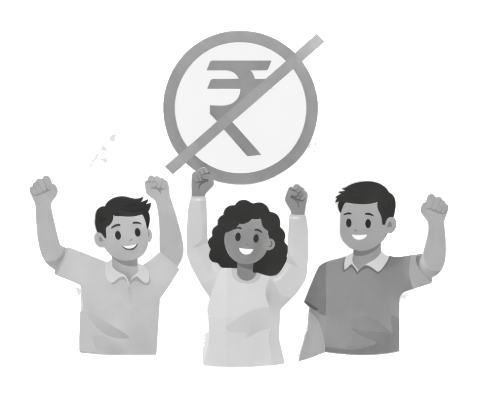
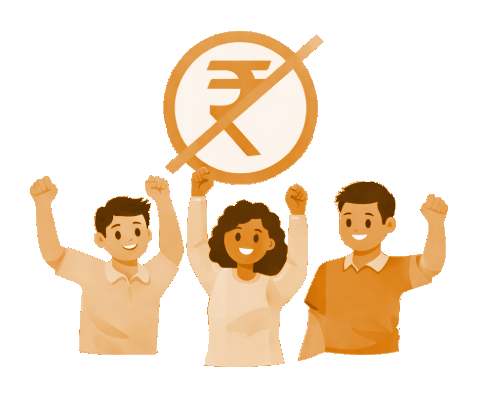
fixed the intro screen, first release

Changed region(s): [[0.0619, 0.06, 0.9278, 0.93], [0.2165, 0.33, 0.2474, 0.36]]

diff --git a/lib/pages/introduction.dart b/lib/pages/introduction.dart
@@ -28,11 +28,7 @@ class _IntroductionPageState extends State<IntroductionPage> {
         pages: [
           PageViewModel(
             title: AppLocalizations.of(context)!.selectLanguage,
-            image: Image.asset(
-              'assets/introduction/language_select.png',
-              color: Theme.of(context).colorScheme.onSurface,
-              colorBlendMode: BlendMode.modulate,
-            ),
+            image: Image.asset('assets/introduction/language_select.png'),
             bodyWidget: Column(
               mainAxisAlignment: MainAxisAlignment.center,
               children: List.generate(Globals.supportedLanguages.length, (
@@ -86,25 +82,17 @@ class _IntroductionPageState extends State<IntroductionPage> {
           PageViewModel(
             title: AppLocalizations.of(context)!.findBhandaras,
             body: AppLocalizations.of(context)!.findBhandarasDescription,
-            image: Image.asset(
-              'assets/introduction/find_bhandaras.png',
-              color: Theme.of(context).colorScheme.onSurface,
-              colorBlendMode: BlendMode.modulate,
-            ),
+            image: Image.asset('assets/introduction/find_bhandaras.png'),
           ),
           PageViewModel(
             title: AppLocalizations.of(context)!.hostABhandara,
             body: AppLocalizations.of(context)!.hostABhandaraDescription,
-            image: Image.asset('assets/logo.png'),
+            image: Image.asset('assets/introduction/host_bhandaras.png'),
           ),
           PageViewModel(
             title: AppLocalizations.of(context)!.allForFree,
             body: AppLocalizations.of(context)!.allForFreeDescription,
-            image: Image.asset(
-              'assets/introduction/all_for_free.png',
-              color: Theme.of(context).colorScheme.onSurface,
-              colorBlendMode: BlendMode.modulate,
-            ),
+            image: Image.asset('assets/introduction/all_for_free.png'),
           ),
         ],
         showSkipButton: true,

diff --git a/lib/utils/widgets/banner_ad_template.dart b/lib/utils/widgets/banner_ad_template.dart
@@ -12,6 +12,7 @@ class BannerAdTemplate extends StatefulWidget {
 
 class _BannerAdTemplateState extends State<BannerAdTemplate> {
   BannerAd? bannerAd;
+  bool? adFailedToLoad;
 
   @override
   void didChangeDependencies() {
@@ -40,6 +41,11 @@ class _BannerAdTemplateState extends State<BannerAdTemplate> {
         },
         onAdFailedToLoad: (ad, error) {
           debugPrint("Ad failed to load with error: $error");
+
+          setState(() {
+            adFailedToLoad = true;
+          });
+
           ad.dispose();
         },
       ),
@@ -47,13 +53,17 @@ class _BannerAdTemplateState extends State<BannerAdTemplate> {
     );
 
     if (bannerAd != null) {
-      bannerAd!.load();
+      await bannerAd!.load();
+
+      setState(() {
+        adFailedToLoad = false;
+      });
     }
   }
 
   @override
   Widget build(BuildContext context) {
-    if (bannerAd != null) {
+    if (bannerAd != null && adFailedToLoad != null && adFailedToLoad == false) {
       return Column(
         children: [
           SizedBox(height: 32),
